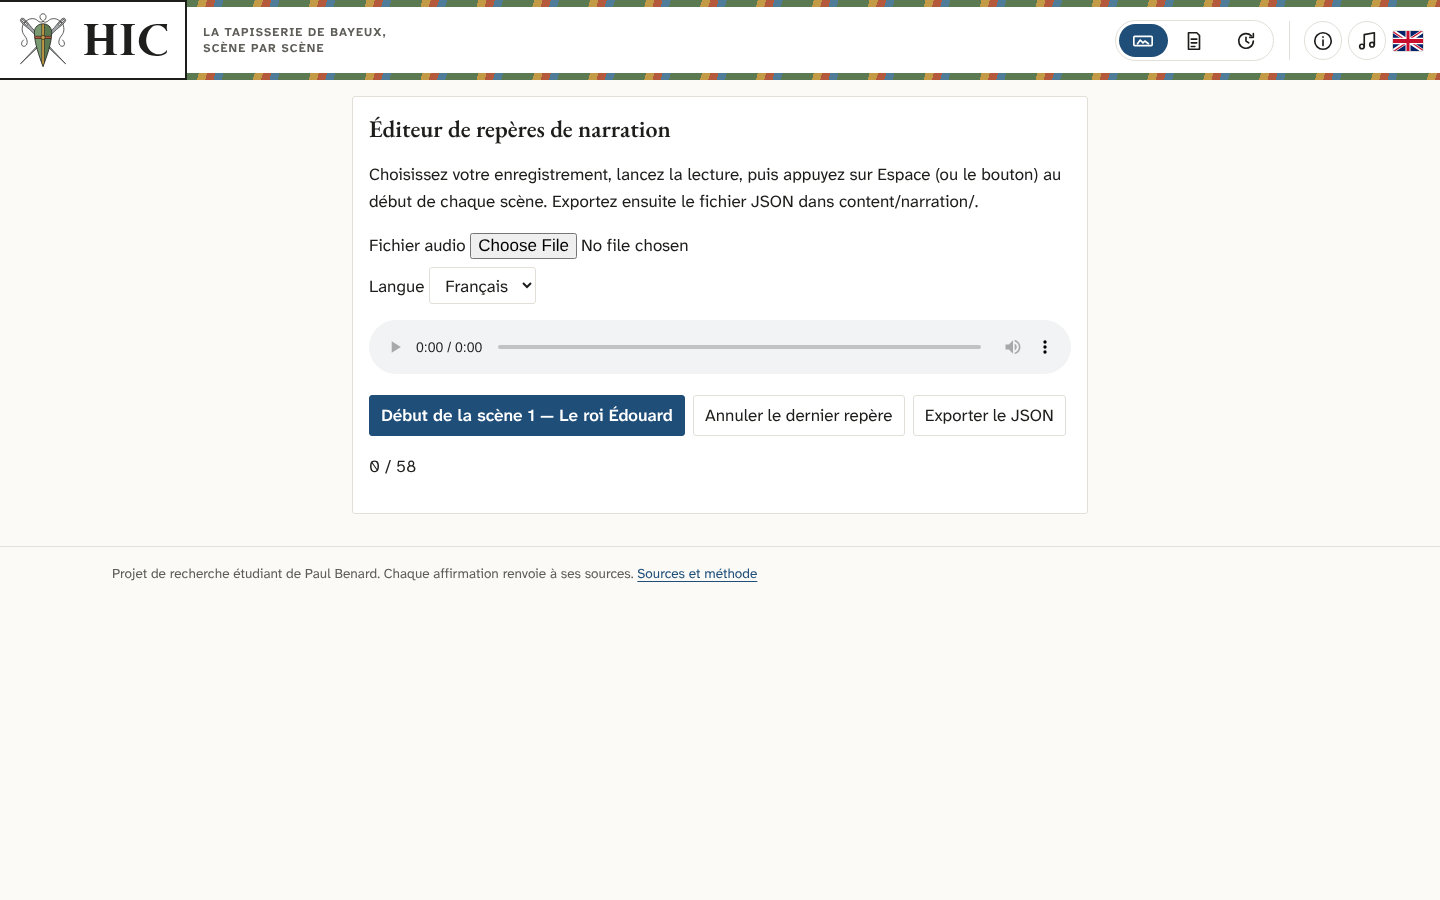
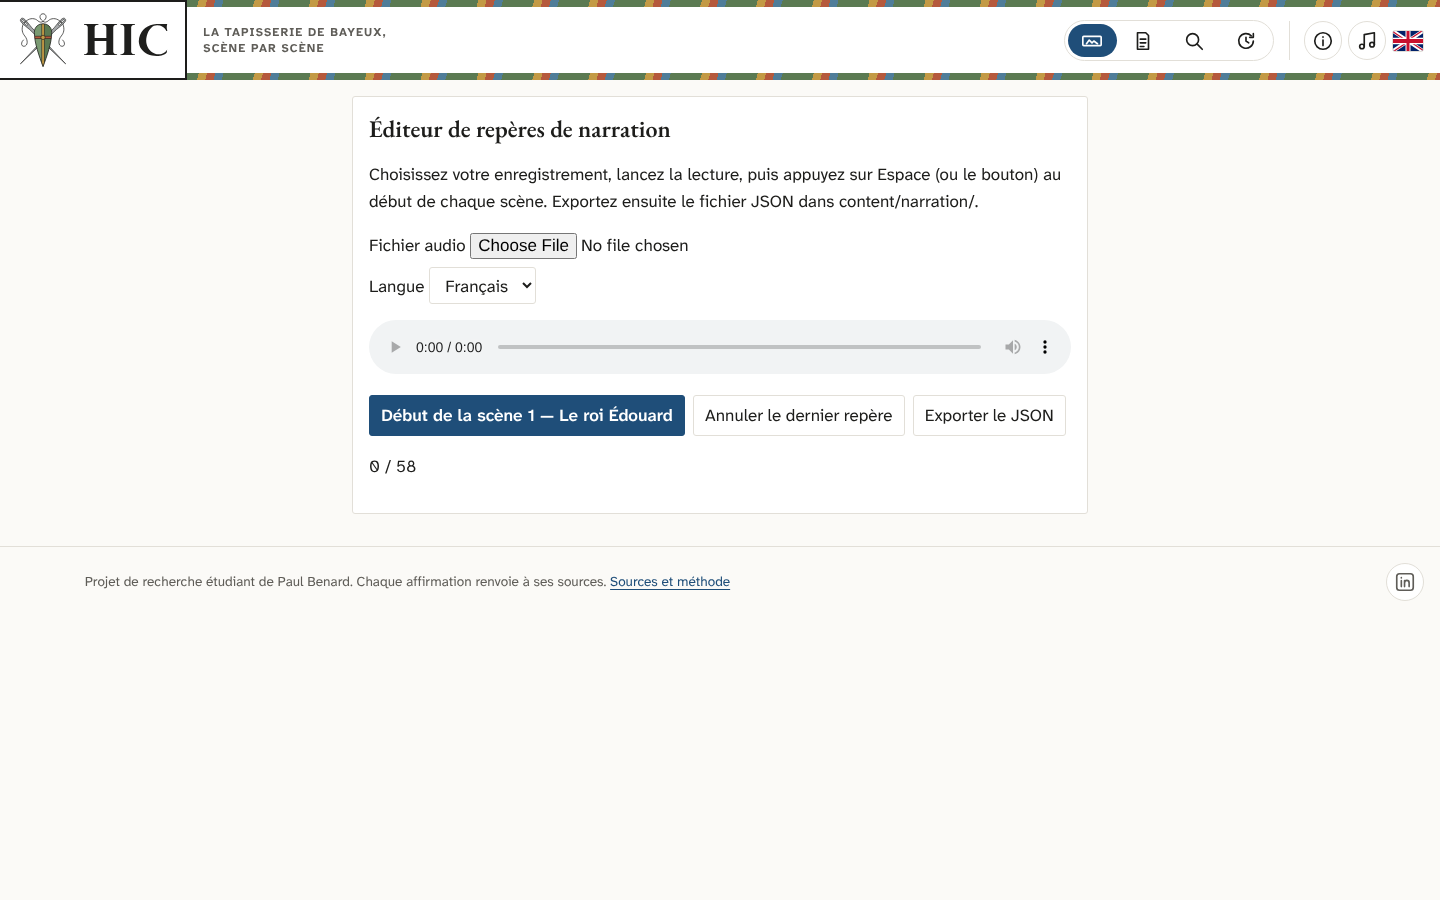
A points-of-interest view, a LinkedIn link, and a working close button
- ?view=notes (magnifying glass, beside the text view): every note by lens,
  with the detail it is about (drawn from the tiles as it scrolls into view),
  its text, pictures and maps, sources and a link back to the strip; a picture
  or map icon beside titles that have one.
- The footer links to Paul Benard's LinkedIn profile (an inline icon, nothing
  loaded from LinkedIn).
- The panels' close button works again (the rule letting clicks through icons
  also caught it).
- The phone header fits four views and the tools down to 360 px.

Claude-Session: https://claude.ai/code/session_01MdYvH6snGt4WfWc9wchGME

Changed region(s): [[0.0625, 0.6222, 0.5312, 0.6533], [0.7188, 0.0, 0.8438, 0.0622], [0.9688, 0.6222, 1.0, 0.6533]]

diff --git a/src/main.ts b/src/main.ts
@@ -10,9 +10,9 @@ import { Soundscape } from "./soundscape";
 import { clear, h, prefersReducedMotion } from "./dom";
 import { colon, strings, type Strings } from "./i18n";
 import { captionTokens, grammarLabel } from "./latin";
-import { chooseLayer, clamp, sceneAt, sceneCentre, scenePoint, sceneRange } from "./layout";
+import { boxToSource, chooseLayer, clamp, noteBox, sceneAt, sceneCentre, scenePoint, sceneRange } from "./layout";
 import { icon, type IconName } from "./icons";
-import { creditLine } from "./media";
+import { creditLine, renderMedia } from "./media";
 import { Minimap } from "./minimap";
 import { autoCues, formatTime, highlightCues, narrationPathAt, startScene, timeForScene, timeForStop } from "./narration";
 import { NotesPanel, notesInRange } from "./notes-panel";
@@ -23,7 +23,7 @@ import { browserLang, parseState, serializeState, type AppState } from "./state"
 import { Strip } from "./strip";
 import { thumbnail } from "./thumb";
 import { renderCueEditor, startCalibration } from "./tools";
-import type { Highlight, Lang, Note, Scene } from "./types";
+import { LENSES, type Highlight, type Lang, type Note, type Scene } from "./types";
 
 const app = document.getElementById("app")!;
 const state: AppState = parseState(location.search, browserLang(navigator.languages), scenes.length);
@@ -211,6 +211,7 @@ function header(tools?: HTMLElement): HTMLElement {
         { class: "view-switch", role: "group", "aria-label": t.views },
         viewLink("strip", t.stripView, "strip"),
         viewLink("text", t.textView, "text"),
+        viewLink("notes", t.notesView, "search"),
         viewLink("afterlife", t.afterlife, "after"),
       ),
       h(
@@ -229,6 +230,19 @@ function footer(): HTMLElement {
     "footer",
     { class: "site-footer" },
     h("p", {}, t.footer, " ", h("button", { type: "button", class: "link", onclick: openAbout }, t.method)),
+    // The author's LinkedIn profile: a plain link (nothing is loaded from LinkedIn until it is followed).
+    h(
+      "a",
+      {
+        class: "footer-linkedin icon-button",
+        href: "https://www.linkedin.com/in/paul-benard-pb2003",
+        target: "_blank",
+        rel: "noopener",
+        "aria-label": t.linkedin,
+        title: t.linkedin,
+      },
+      icon("linkedin"),
+    ),
   );
 }
 
@@ -449,6 +463,81 @@ function renderText(): void {
   );
   app.replaceChildren(header(), main, footer());
   if (state.scene) document.getElementById(`scene-${state.scene}`)?.scrollIntoView();
+}
+
+// ---------- points of interest ----------
+
+/** Draws a note's detail from the tiles only when it scrolls into view (65 at once would load too many tiles). */
+const thumbWatcher =
+  typeof IntersectionObserver === "undefined"
+    ? null
+    : new IntersectionObserver(
+        (entries) => {
+          for (const entry of entries) {
+            if (!entry.isIntersecting) continue;
+            const slot = entry.target as HTMLElement;
+            thumbWatcher?.unobserve(slot);
+            const note = notes.find((n) => n.id === slot.dataset.note);
+            if (note) slot.replaceChildren(thumbnail(layer, boxToSource(layer, note.scene, noteBox(note))));
+          }
+        },
+        { rootMargin: "300px" },
+      );
+
+/** Every note in one list, by lens: its detail, its text, its pictures and maps, and a way back to the strip. */
+function renderNotes(): void {
+  const lang = state.lang;
+  const mediaIcons = (note: Note) => {
+    const kinds = new Set((note.media ?? []).map((id) => media[id]?.kind));
+    return h(
+      "span",
+      { class: "media-icons" },
+      kinds.has("image") ? h("span", { title: t.hasImage, "aria-label": t.hasImage }, icon("image")) : "",
+      kinds.has("video") ? h("span", { title: t.hasMap, "aria-label": t.hasMap }, icon("map")) : "",
+    );
+  };
+  const entry = (note: Note) => {
+    const slot = h("div", { class: "poi-thumb", "data-note": note.id });
+    if (thumbWatcher) thumbWatcher.observe(slot);
+    else slot.append(thumbnail(layer, boxToSource(layer, note.scene, noteBox(note))));
+    return h(
+      "article",
+      { id: `note-${note.id}`, class: `poi lens-${note.lens}` },
+      slot,
+      h(
+        "div",
+        { class: "poi-body" },
+        h("h3", {}, note.title[lang], mediaIcons(note)),
+        h("p", { class: "poi-where" }, `${t.scene} ${note.scene} · ${sceneByNumber(note.scene).title[lang]}`),
+        h("p", {}, note.summary[lang]),
+        ...(note.sections ?? []).flatMap((s) => [h("h4", {}, s.heading[lang]), h("p", {}, s.text[lang])]),
+        ...(note.media ?? []).map((id) => renderMedia(id, lang, t)).filter((m): m is HTMLElement => m !== null),
+        sourceList([...note.sources, ...(note.sections ?? []).flatMap((s) => s.sources)]),
+        h("p", {}, h("a", { href: serializeState({ ...state, view: "strip", scene: note.scene }) }, `${t.seeOnEmbroidery} →`)),
+      ),
+    );
+  };
+  const main = h(
+    "main",
+    { class: "notes-view" },
+    h("h1", {}, t.notesViewTitle),
+    h("p", { class: "notes-intro" }, t.notesViewIntro),
+    h(
+      "nav",
+      { class: "poi-index", "aria-label": t.notesView },
+      ...LENSES.map((lens) => h("a", { href: `#lens-${lens}`, class: `lens-${lens}` }, t.lenses[lens])),
+    ),
+    ...LENSES.map((lens) =>
+      h(
+        "section",
+        { id: `lens-${lens}`, class: `poi-lens lens-${lens}` },
+        h("h2", {}, t.lenses[lens]),
+        ...notes.filter((n) => n.lens === lens).sort((a, b) => a.scene - b.scene || a.at - b.at).map(entry),
+      ),
+    ),
+    storyFoot(lang),
+  );
+  app.replaceChildren(header(), main, footer());
 }
 
 // ---------- strip view ----------
@@ -885,6 +974,8 @@ if (state.tool === "cues") {
   renderCueEditor(main, t, scenes, state.lang);
 } else if (state.view === "text") {
   renderText();
+} else if (state.view === "notes") {
+  renderNotes();
 } else if (state.view === "afterlife") {
   app.replaceChildren(header());
   const root = h("div");

diff --git a/src/style.css b/src/style.css
@@ -127,7 +127,7 @@ button.icon { font-size: 1.5rem; line-height: 1; padding: 0.1rem 0.6rem; }
 }
 .icon-wrap { display: inline-grid; place-items: center; line-height: 0; }
 /* Icons never take the click: it always lands on the button itself. */
-.icon-button > *, .icon-wrap, .icon { pointer-events: none; }
+.icon-button > *, .icon-wrap, svg.icon { pointer-events: none; }
 .play.icon-button { width: 2.8rem; height: 2.8rem; background: var(--accent); color: var(--accent-ink); border-color: var(--accent); }
 .tool-step { display: none; }
 .topnav .icon-button:hover { color: var(--accent); border-color: var(--accent); }
@@ -135,6 +135,10 @@ button.icon { font-size: 1.5rem; line-height: 1; padding: 0.1rem 0.6rem; }
 .topnav .icon-button[aria-current="page"] { color: var(--accent); border-color: var(--accent); }
 .site-footer { border-top: 1px solid var(--line); margin-top: 2rem; padding: 1rem 16px 2rem; color: var(--muted); font-size: 0.85rem; }
 .site-footer p { max-width: 76rem; margin: 0 auto; }
+.site-footer { display: flex; align-items: center; justify-content: space-between; gap: 1rem; }
+.site-footer p { flex: 1; }
+.footer-linkedin { color: var(--muted); flex: none; }
+.footer-linkedin:hover { color: var(--accent); border-color: var(--accent); }
 
 /* ---------- viewer ---------- */
 .stage { position: relative; }
@@ -348,6 +352,25 @@ button.icon { font-size: 1.5rem; line-height: 1; padding: 0.1rem 0.6rem; }
 
 /* ---------- text view ---------- */
 .text-view { padding: 1rem 0 3rem; }
+/* ---------- points of interest ---------- */
+.notes-view { padding: 1rem 16px 3rem; max-width: 62rem; margin: 0 auto; }
+.notes-view > h1 { font: 600 2.2rem/1.1 var(--font-display); margin: 0 0 0.5rem; }
+.notes-intro { color: var(--muted); margin: 0 0 1rem; }
+.poi-index { display: flex; flex-wrap: wrap; gap: 0.4rem 1.2rem; margin: 0 0 2rem; }
+.poi-index a { color: var(--lens); font-weight: 600; text-decoration: none; border-bottom: 2px solid var(--lens); }
+.poi-lens > h2 { font: 600 1.6rem/1.2 var(--font-display); color: var(--lens); border-bottom: 2px solid var(--lens); padding-bottom: 0.3rem; margin: 2.5rem 0 1rem; }
+.poi { display: grid; grid-template-columns: minmax(0, 18rem) minmax(0, 1fr); gap: 1.2rem; padding: 1.2rem 0; border-bottom: 1px solid var(--line); }
+.poi-thumb { min-height: 8rem; background: var(--placeholder-b); border-radius: var(--radius); overflow: hidden; align-self: start; }
+.poi-thumb canvas { display: block; width: 100%; height: auto; }
+.poi-body h3 { font: 600 1.3rem/1.25 var(--font-display); margin: 0 0 0.2rem; display: flex; align-items: center; gap: 0.5rem; flex-wrap: wrap; }
+.poi-body h4 { margin: 1rem 0 0.2rem; }
+.poi-where { color: var(--muted); font-size: 0.9rem; margin: 0 0 0.6rem; }
+.media-icons { display: inline-flex; gap: 0.3rem; color: var(--lens); }
+.media-icons .icon { width: 18px; height: 18px; }
+.poi .media { margin: 1rem 0; }
+@media (max-width: 640px) {
+  .poi { grid-template-columns: 1fr; }
+}
 .text-view > h1 { font: 600 2.2rem/1.1 var(--font-display); max-width: 46rem; margin: 0 auto 1rem; padding: 0 16px; }
 .text-scene { margin: 0 auto 2.5rem; border-top: 1px solid var(--line); padding-top: 1.2rem; }
 /* Each scene of the text view can be heard: a play button at the top right of the scene. */
@@ -394,15 +417,18 @@ button.icon { font-size: 1.5rem; line-height: 1; padding: 0.1rem 0.6rem; }
   .topbar::before, .topbar::after { height: 5px; }
   .brand-link { gap: 8px; }
   .brand { margin: calc(-0.5rem - 5px) 0 calc(-0.5rem - 5px) -12px; }
-  .brand-box { padding: 0.35rem 10px; gap: 8px; }
-  .brand-shield svg { height: 36px; }
-  .brand-word svg { height: 22px; }
+  .brand-box { padding: 0.35rem 8px; gap: 6px; }
+  .brand-shield svg { height: 32px; }
+  .brand-word svg { height: 19px; }
   .brand p { display: none; }
-  .topnav { gap: 0.4rem; }
-  .view-option { height: 1.9rem; padding: 0 0.55rem; }
-  .view-option .icon { width: 19px; height: 19px; }
-  .tool-group { gap: 0.2rem; padding-left: 0.4rem; }
-  .icon-button { width: 2.2rem; height: 2.2rem; }
+  .topnav { gap: 0.3rem; }
+  /* Four views and three tools: kept small enough to fit a 360 px phone beside the marks. */
+  .view-switch { padding: 2px; gap: 0; }
+  .view-option { height: 1.85rem; padding: 0 0.42rem; }
+  .view-option .icon { width: 18px; height: 18px; }
+  .tool-group { gap: 0.15rem; padding-left: 0.3rem; }
+  .icon-button { width: 2.1rem; height: 2.1rem; }
+  .topnav .icon-button .icon { width: 19px; height: 19px; }
   .flag svg { width: 26px; height: 17px; }
   /* The tour sits in a bar at the bottom of the screen, within thumb reach. */
   .tour-tools {

diff --git a/src/state.ts b/src/state.ts
@@ -1,8 +1,8 @@
-// URL state, so any moment can be shared: ?lang=en&scene=23, ?view=text|afterlife, ?tool=cues|calibrate,
+// URL state, so any moment can be shared: ?lang=en&scene=23, ?view=text|afterlife|notes, ?tool=cues|calibrate,
 // ?image=<layer>, ?lens=<lens>,<lens>|none (all when absent), ?tour=highlights.
 import { LENSES, type Lang, type Lens } from "./types";
 
-export type View = "strip" | "text" | "afterlife";
+export type View = "strip" | "text" | "afterlife" | "notes";
 export type Tool = "none" | "cues" | "calibrate";
 export type Tour = "full" | "highlights";
 
@@ -31,7 +31,7 @@ export function parseState(search: string, defaultLang: Lang, sceneTotal: number
   return {
     lang: lang === "fr" || lang === "en" ? lang : defaultLang,
     scene: Number.isInteger(scene) && scene >= 1 && scene <= sceneTotal ? scene : null,
-    view: view === "text" || view === "afterlife" ? view : "strip",
+    view: view === "text" || view === "afterlife" || view === "notes" ? view : "strip",
     tool: tool === "cues" || tool === "calibrate" ? tool : "none",
     image: image && /^[a-z0-9-]+$/.test(image) ? image : null,
     lenses: parseLenses(lens),

diff --git a/src/icons.ts b/src/icons.ts
@@ -15,6 +15,13 @@ const PATHS = {
   speak: '<path d="M4 9h4l5-4v14l-5-4H4z"/><path d="M16.5 8.5a5 5 0 0 1 0 7M19 6a8.5 8.5 0 0 1 0 12"/>',
   play: '<path d="M8 5l11 7-11 7z" fill="currentColor"/>',
   pause: '<path d="M7 5h3v14H7zM14 5h3v14h-3z" fill="currentColor"/>',
+  // A magnifying glass: every point of interest in one list.
+  search: '<circle cx="10.5" cy="10.5" r="6.5"/><path d="M15.5 15.5L21 21"/>',
+  // A picture and a map, beside a note's title when it has one.
+  image: '<rect x="3" y="5" width="18" height="14" rx="1"/><circle cx="9" cy="10" r="1.6"/><path d="M4 18l5-5 4 4 3-3 4 4"/>',
+  map: '<path d="M3 6l6-2 6 2 6-2v14l-6 2-6-2-6 2z"/><path d="M9 4v14M15 6v14"/>',
+  // LinkedIn, as its letters: a link to the author's profile.
+  linkedin: '<rect x="3" y="3" width="18" height="18" rx="3"/><path d="M8 10.5V17M8 7.3v.2M11.5 17v-6.5M11.5 13c0-1.6 1.1-2.7 2.5-2.7s2.5 1 2.5 2.7V17"/>',
   prev: '<path d="M15 5l-7 7 7 7"/>',
   next: '<path d="M9 5l7 7-7 7"/>',
 } as const;

diff --git a/src/i18n/fr.ts b/src/i18n/fr.ts
@@ -69,6 +69,14 @@ export const fr = {
   soundTitle: "Son",
   introKicker: "Introduction",
   conclusionKicker: "Conclusion",
+  notesView: "Points d’intérêt",
+  notesViewTitle: "Points d’intérêt",
+  notesViewIntro:
+    "Toutes les notes sur la broderie réunies, par thème, avec le détail qu’elles commentent, leurs images et leurs cartes.",
+  hasImage: "Avec une image",
+  hasMap: "Avec une carte",
+  seeOnEmbroidery: "Voir sur la broderie",
+  linkedin: "Paul Benard sur LinkedIn",
   listenOnly: "Ou simplement écouter la narration :",
   playScene: "Écouter cette scène",
   pauseScene: "Pause",

diff --git a/src/i18n/en.ts b/src/i18n/en.ts
@@ -71,6 +71,14 @@ export const en: Strings = {
   soundTitle: "Sound",
   introKicker: "Introduction",
   conclusionKicker: "Conclusion",
+  notesView: "Points of interest",
+  notesViewTitle: "Points of interest",
+  notesViewIntro:
+    "Every note on the embroidery in one list, by theme, with the detail it is about and its pictures and maps.",
+  hasImage: "With a picture",
+  hasMap: "With a map",
+  seeOnEmbroidery: "See it on the embroidery",
+  linkedin: "Paul Benard on LinkedIn",
   listenOnly: "Or just listen to the narration:",
   playScene: "Listen to this scene",
   pauseScene: "Pause",

diff --git a/CLAUDE.md b/CLAUDE.md
@@ -102,7 +102,8 @@ npm run screenshots    # needs `npm run preview` running; docs/screenshots/ + ke
 python scripts/make_tiles.py bayeux2017   # deep-zoom tiles; needs libvips (the Image tiles workflow runs it)
 ```
 
-URL: `?lang=fr|en`, `?scene=n`, `?lens=<lens>,<lens>|none` (all when absent), `?tour=highlights`, `?view=text|afterlife` (+ `#n` slide), `?tool=cues|calibrate`,
+URL: `?lang=fr|en`, `?scene=n`, `?lens=<lens>,<lens>|none` (all when absent), `?tour=highlights`,
+`?view=text|notes|afterlife` (notes: every point of interest by lens; afterlife: + `#n` slide), `?tool=cues|calibrate`,
 `?image=<layer id>`.
 
 Map clips: edit `scripts/map_scenes.py`, run it, then render each `maps/<name>.<lang>.json` with Map-clip-render
